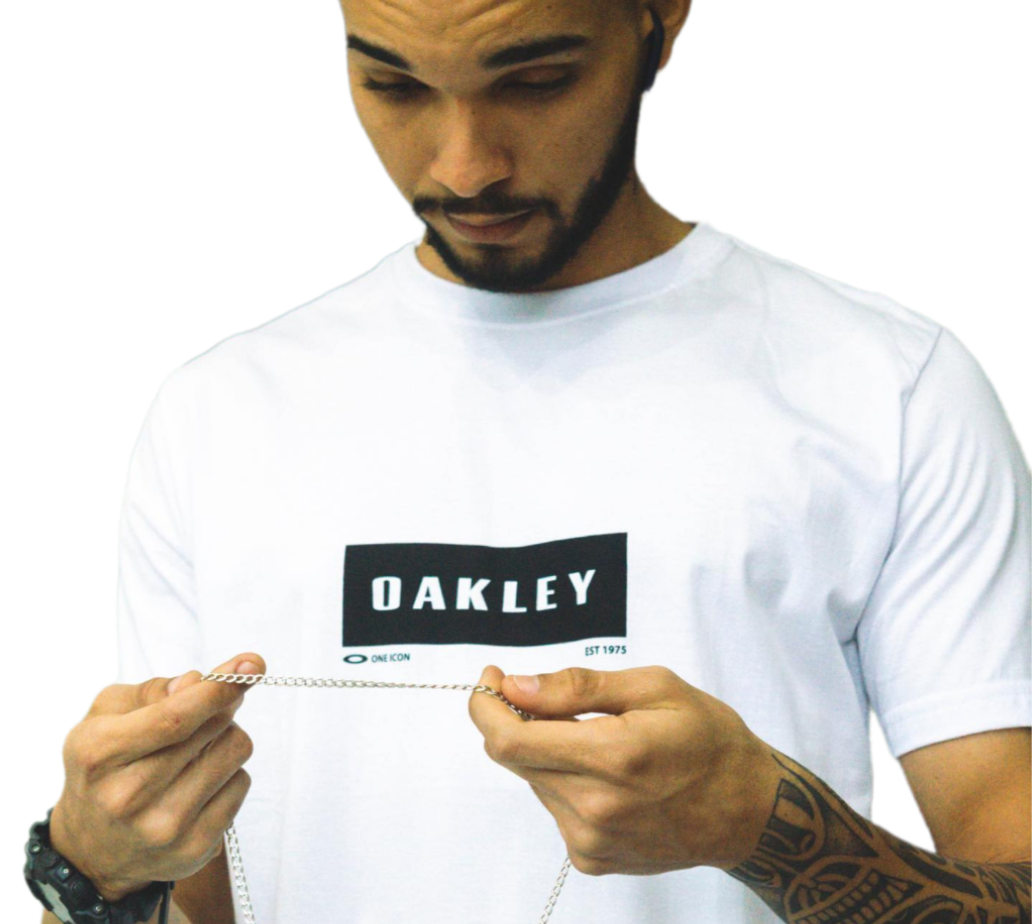
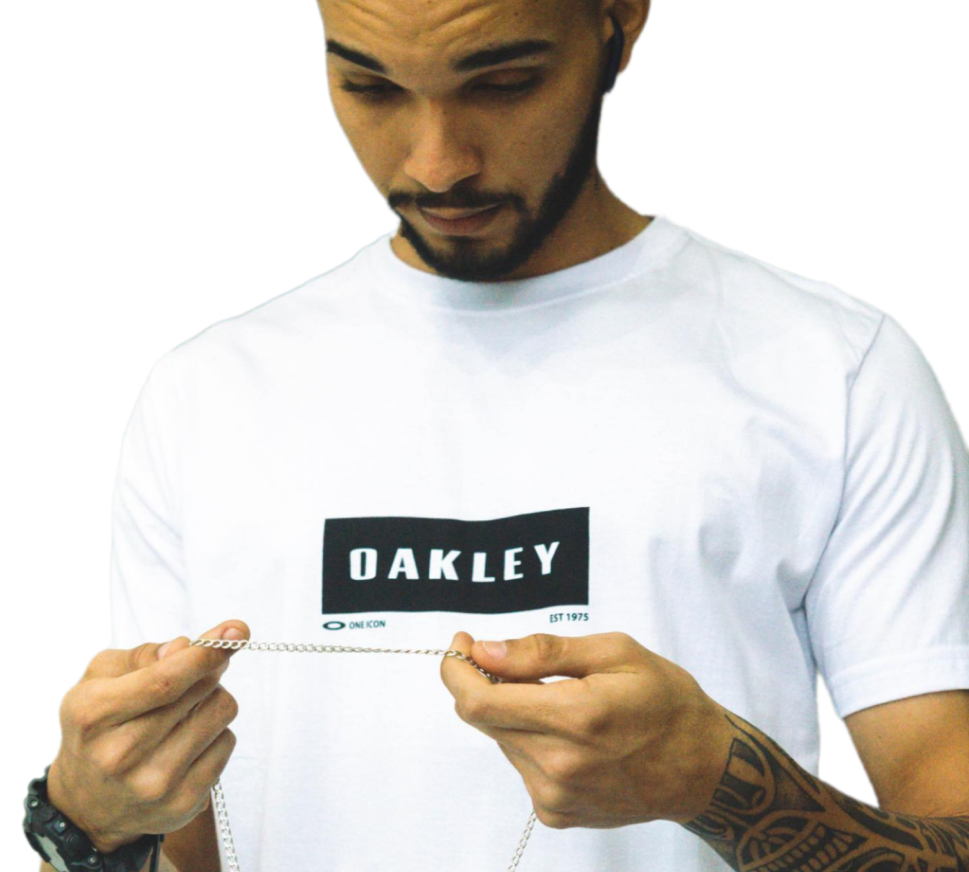
fixed advertisement

diff --git a/src/pages/Home/Home.js b/src/pages/Home/Home.js
@@ -4,7 +4,6 @@ import NavBar from '../../components/NavBar/NavBar';
 import Commercial from '../../components/Commercial/Commercial';
 import Carousel from '../../components/Carousel/Carousel';
 import Releases from '../../components/Releases/Releases';
-import Intersection from '../../components/Intersection/Intersection';
 import Advertisement from '../../components/Advertisement/Advertisement';
 import Location from '../../components/Location/Location';
 import MenuCategories from '../../components/MenuCategories/MenuCategories';
@@ -17,7 +16,6 @@ const Home = () => {
       <Commercial />
       <Carousel />
       <Releases />
-      <Intersection />
       <Advertisement />
       <h1 className=" justify-content-between align-items-center text-center pt-5 pb-5">
         Localização

diff --git a/src/components/Carousel/Carousel.css b/src/components/Carousel/Carousel.css
@@ -3,12 +3,12 @@
 .carousel-control-next-icon {
   background-image: url("https://cdn-icons-png.flaticon.com/512/271/271228.png") !important;
   margin-left: 140px;
-  margin-bottom: 130px;
+  margin-bottom: 140px;
 
 }
 .carousel-control-prev-icon {
   background-image: url("https://cdn-icons-png.flaticon.com/512/271/271220.png") !important;
-    margin-right: 170px;
+    margin-right: 150px;
     margin-bottom: 140px;
 }
 

diff --git a/src/components/Advertisement/Advertisement.css b/src/components/Advertisement/Advertisement.css
@@ -12,6 +12,6 @@
 }
 
 .background-container-Advertisement img {
-    width: 51.6%;
+    width: 630px;
     margin-right: 10%; 
 }
